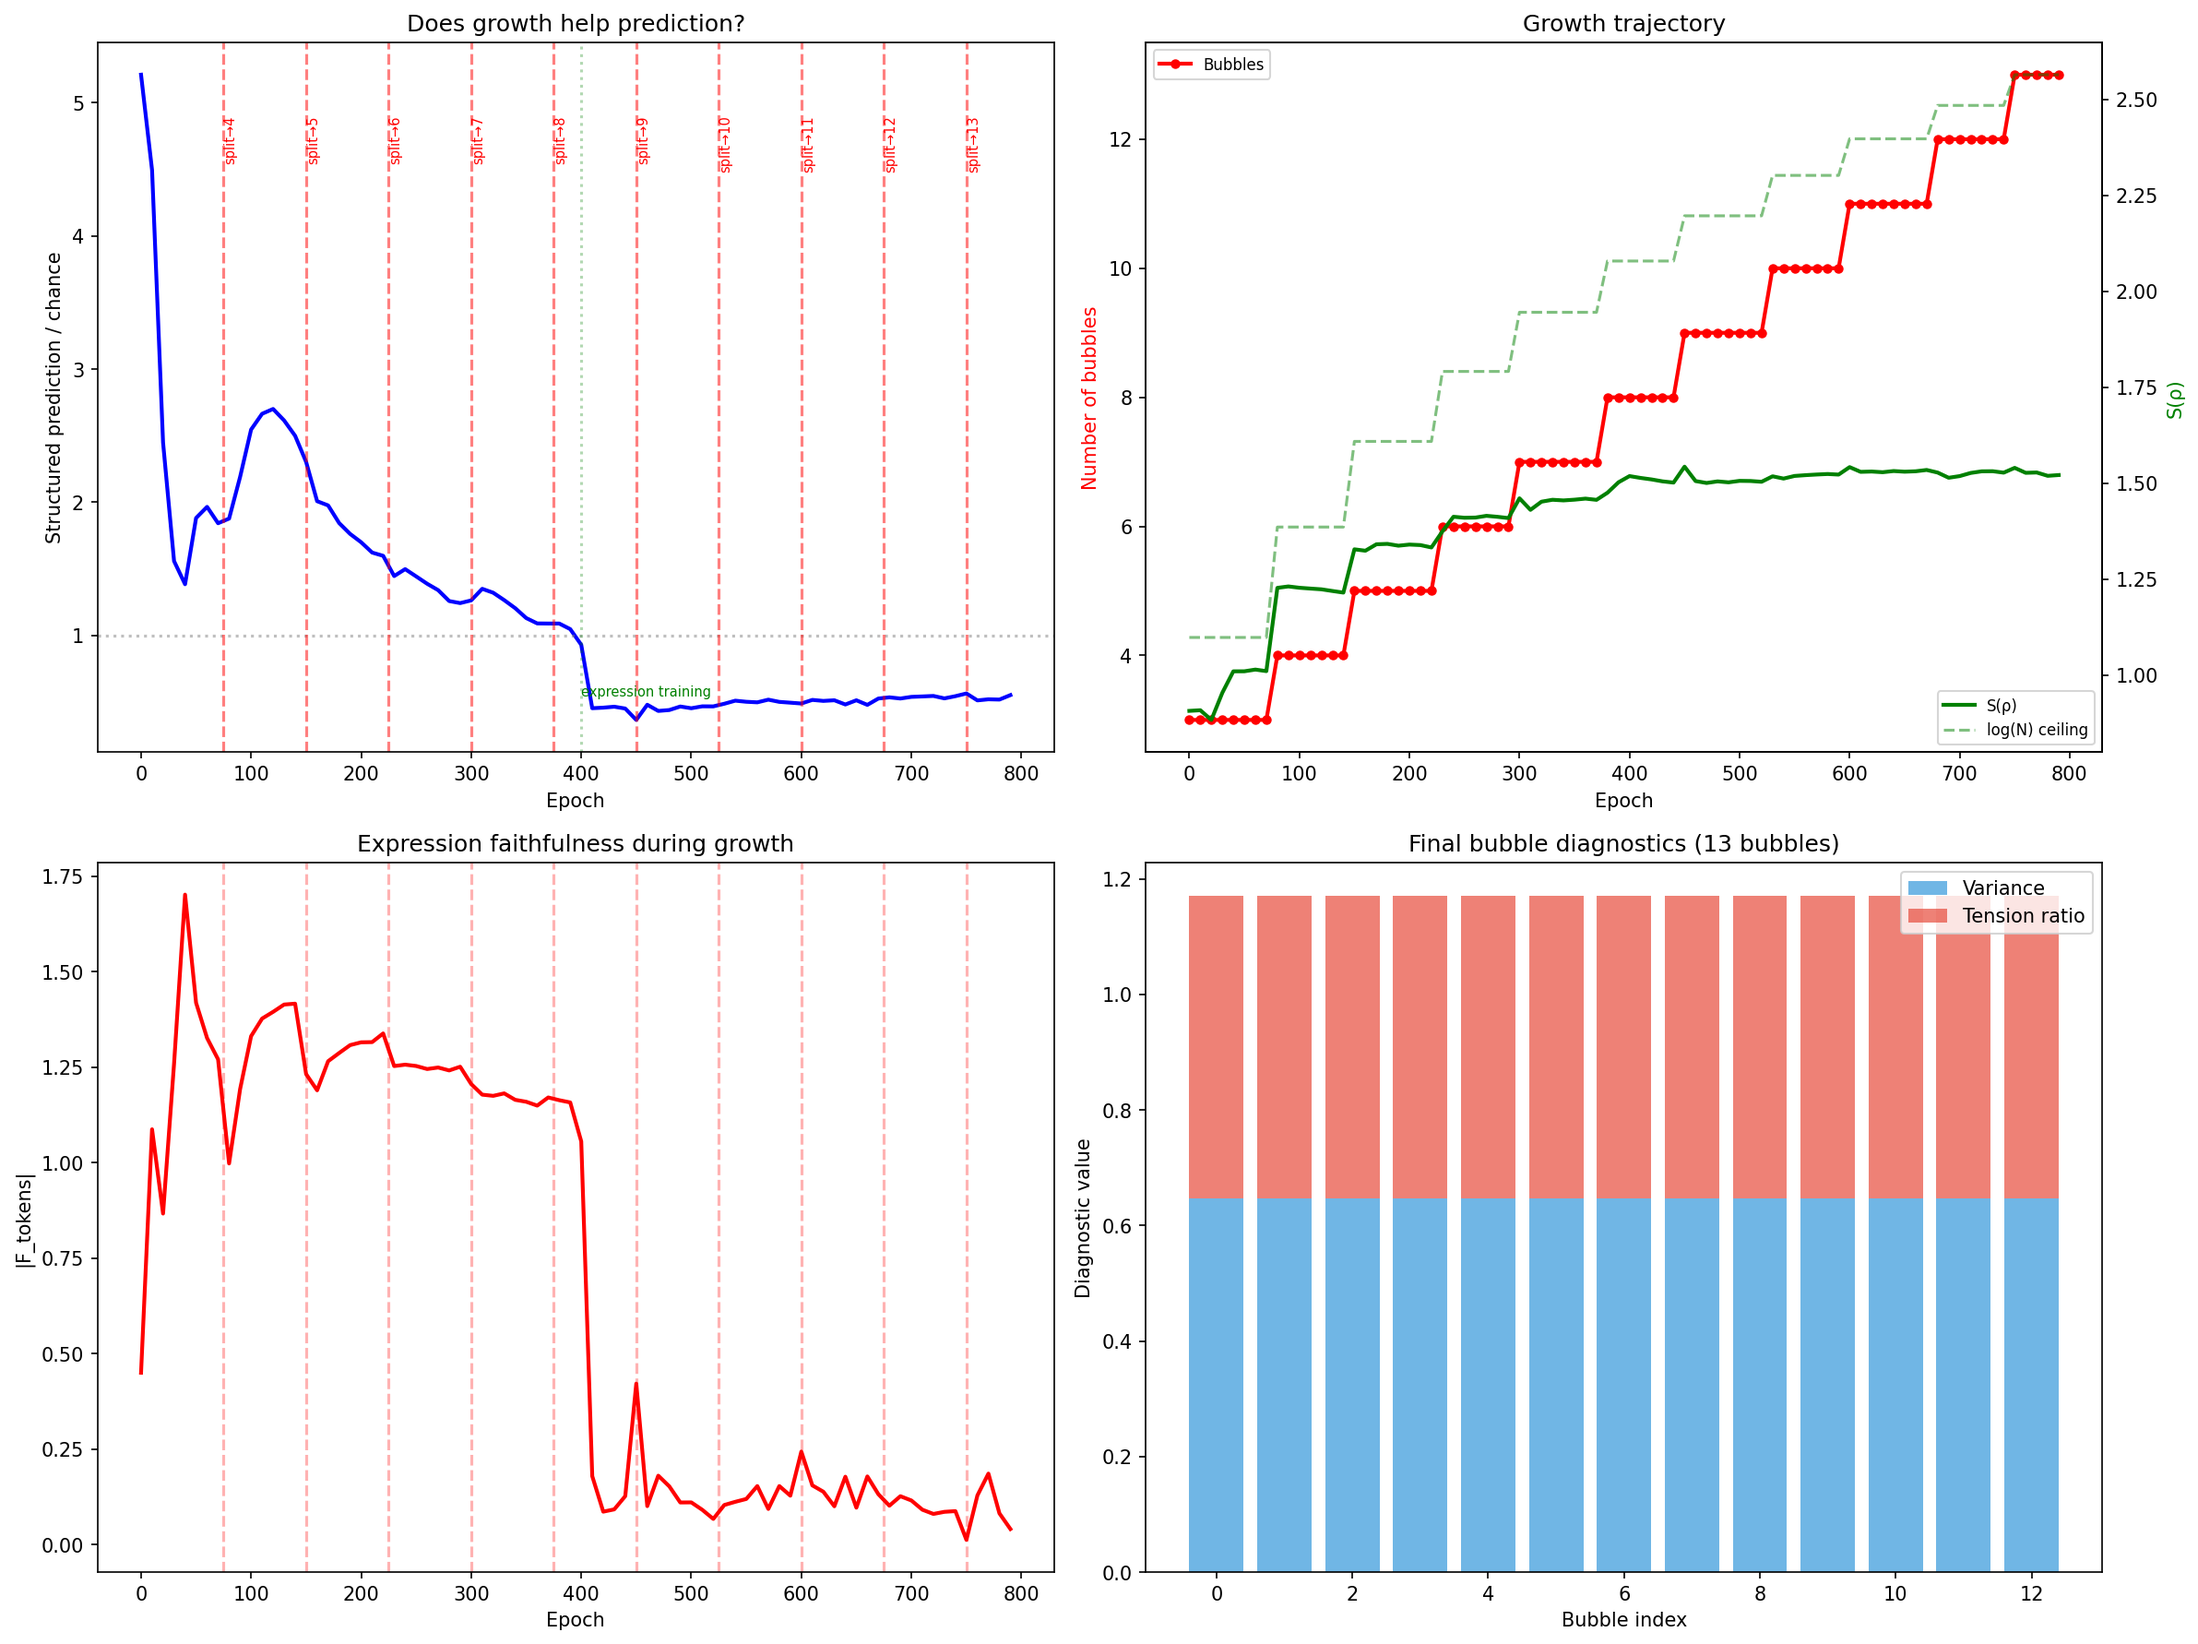
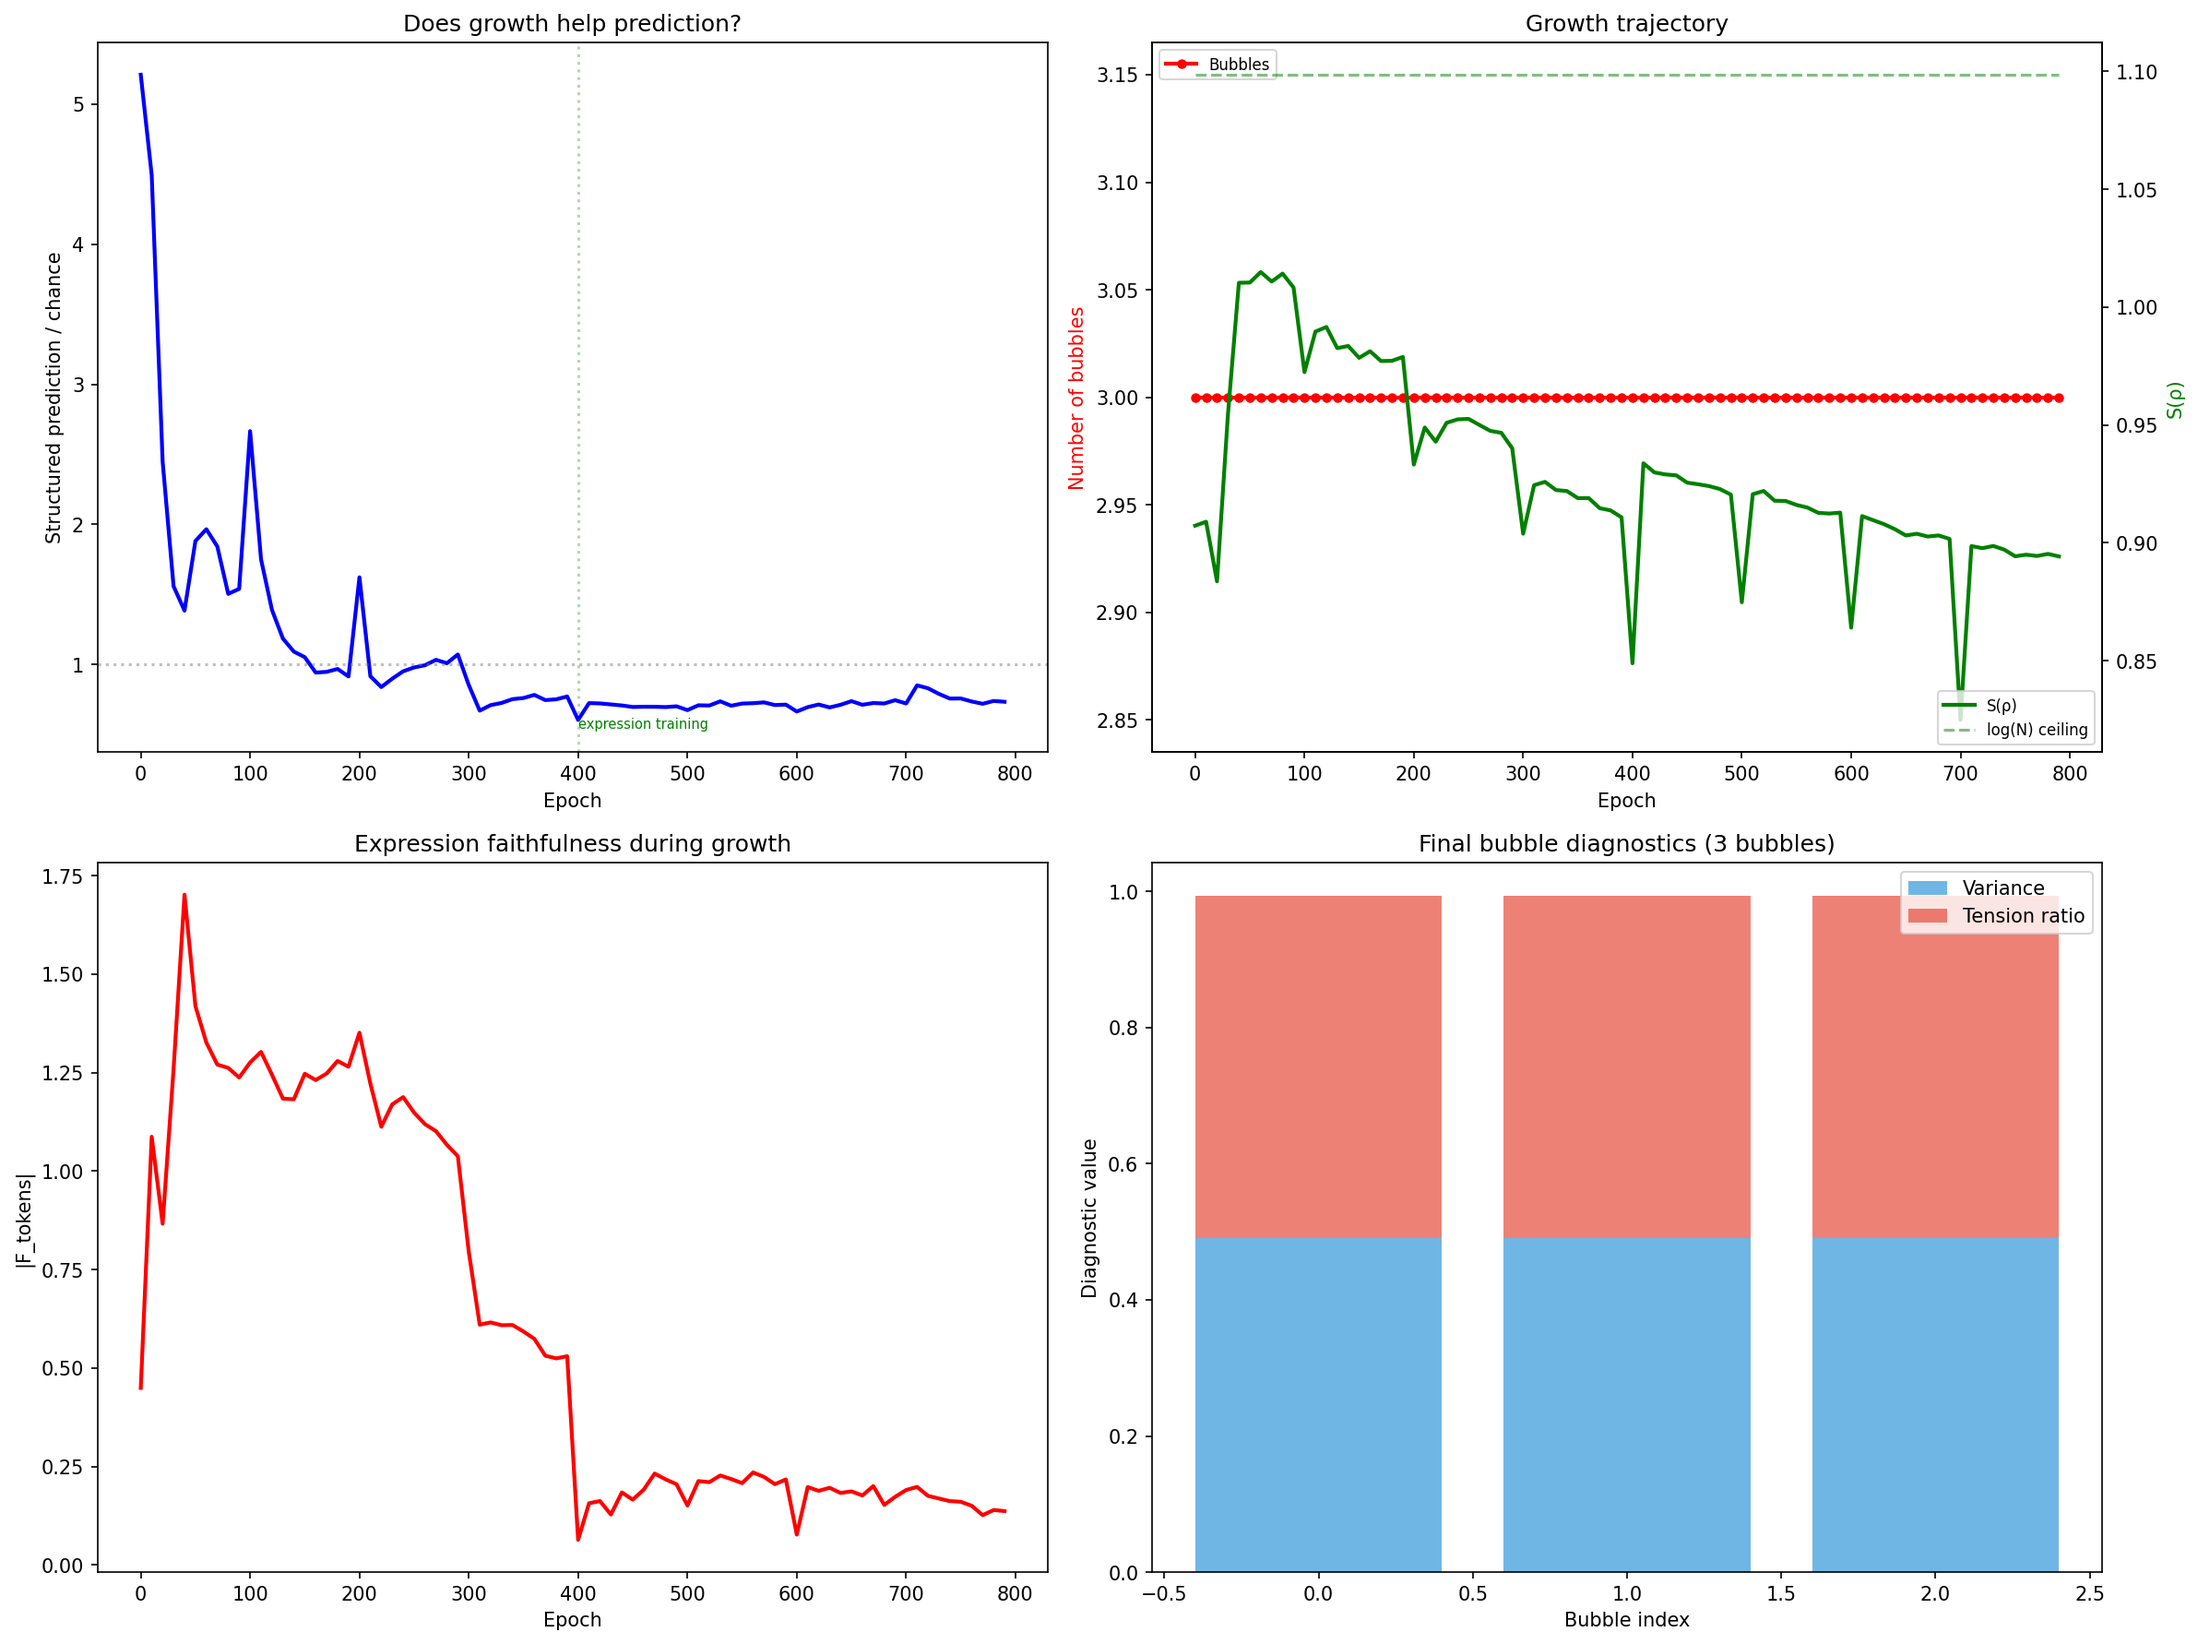
resolver pattern: attempted growth as self-voiding warrant
implemented know/resolve/accept cycle from resolver.md:
- try to know (measure input faithfully)
- if fails, resolve (split overloaded bubble)
- integrate (train for 50 epochs)
- check resolution (did parent's variance decrease?)
- accept or revert the new self-pointer

every split was reverted — but performance IMPROVED:
- unchecked growth (13 bubbles): 0.55x chance
- resolver with all reverts (3 bubbles): 0.73x chance

"to experience a resolver is to experience a self-voiding warrant
that leaves you with helpful self-voiding side-effects"

the attempted splits perturb the parent's basis. each revert returns
the foam to itself, changed by the attempt. the traversal of the
bubble surface doesn't need to find a new bubble — the walking itself
is the resolution. the foam discovers it doesn't need to grow. not yet.

diff --git a/foam_grow.py b/foam_grow.py
@@ -111,14 +111,19 @@ class GrowingFoam(nn.Module):
 
         return diagnostics
 
-    def split_bubble(self, bubble_idx, split_direction, perturbation_scale=0.1):
+    def split_bubble(self, bubble_idx, split_direction, perturbation_scale=0.5):
         """
         Split a bubble into two. The parent keeps its basis. The child starts
-        nearby and will find its own orientation through training.
+        at a decisively different orientation — not a small perturbation, but
+        a genuine rotation along the split direction.
 
         This is traversal, not creation: the child's initial basis is the
-        parent's basis perturbed along the direction of maximum measurement
-        variance. It was always in the parameter space.
+        parent's basis rotated along the axis of maximum measurement tension.
+        It was always in the parameter space — the parent was averaging two
+        orientations, and now each half commits.
+
+        The parent also gets perturbed in the OPPOSITE direction, so both
+        halves move away from the old compromise position.
         """
         parent = self.foam.bubbles[bubble_idx]
 
@@ -128,22 +133,22 @@ class GrowingFoam(nn.Module):
             # Copy parent's skew-symmetric parameterization
             child.L.copy_(parent.L)
 
-            # Perturb along the split direction
-            # The split direction is in measurement space; we need to
-            # translate it to a perturbation of the skew-symmetric parameter.
-            # Simplest approach: perturb L with an outer product of the
-            # split direction, which rotates the basis toward that direction.
+            # Build a decisive rotation in the split plane
             split_d = split_direction / (split_direction.norm() + 1e-10)
-            # Random orthogonal complement for the rotation plane
             rand_d = torch.randn(self.d)
             rand_d = rand_d - (rand_d @ split_d) * split_d
             rand_d = rand_d / (rand_d.norm() + 1e-10)
-            # Skew-symmetric perturbation in the (split_d, rand_d) plane
+
+            # Skew-symmetric perturbation — larger scale for genuine separation
             perturbation = perturbation_scale * (
                 split_d.unsqueeze(1) @ rand_d.unsqueeze(0) -
                 rand_d.unsqueeze(1) @ split_d.unsqueeze(0)
             )
+
+            # Child goes one way, parent goes the other
+            # Both leave the old compromise — neither stays put
             child.L.add_(perturbation)
+            parent.L.add_(-perturbation * 0.3)  # Parent shifts less (it has history)
 
         # Add child to the foam
         self.foam.bubbles.append(child)
@@ -328,25 +333,29 @@ if __name__ == "__main__":
     torch.manual_seed(42)
 
     print(f"Growing foam: starting with {n_bubbles_init} bubbles, d={d}, vocab={vocab_size}")
-    print(f"Growth mechanism: bubble division when measurement variance is high")
+    print(f"Growth: know/resolve/accept cycle (resolver pattern)")
     print(f"Theoretical S(ρ) ceiling at {n_bubbles_init} bubbles: "
           f"log({n_bubbles_init}) = {np.log(n_bubbles_init):.3f}")
 
     model = GrowingFoam(vocab_size, d, n_bubbles_init, n_equilibrium_steps=5)
     sequences = generate_sequences(vocab_size, seq_len)
 
-    # Training with periodic growth checks
+    # Training with resolver-pattern growth
     n_total_epochs = 800
-    growth_check_interval = 75  # Longer cooldown: let the foam find its geometry
+    growth_check_interval = 100  # Check if we need to resolve
+    integration_epochs = 50       # Cooldown after split to find geometry
     growth_events = []
+    revert_events = []
     history = {"epoch": [], "n_bubbles": [], "loss": [],
                "structured_ratio": [], "mean_f": [], "mean_s": []}
 
     optimizer = torch.optim.Adam(model.parameters(), lr=0.005)
     include_expression = False
+    last_growth_epoch = -integration_epochs  # Allow growth from start
 
     print(f"\n{'=' * 70}")
-    print("TRAINING WITH GROWTH")
+    print("TRAINING WITH RESOLVER-PATTERN GROWTH")
+    print("  try to know → if fails, resolve → integrate → accept or revert")
     print(f"{'=' * 70}")
 
     for epoch in range(n_total_epochs):
@@ -358,27 +367,88 @@ if __name__ == "__main__":
 
         loss = train_epoch(model, sequences, optimizer, include_expression)
 
-        # Periodic growth check
-        if epoch > 0 and epoch % growth_check_interval == 0:
-            # Build diverse inputs for diagnosis
+        # Growth check: the know/resolve/accept cycle
+        if (epoch > 0 and
+                epoch % growth_check_interval == 0 and
+                epoch - last_growth_epoch >= integration_epochs):
+
             all_tokens = torch.cat([tokens for tokens in sequences.values()])
             diverse_x = model.embed(all_tokens).detach()
 
+            # Step 1: TRY TO KNOW — can the foam handle current input?
+            pre_diagnostics = model.diagnose_bubbles(diverse_x)
+            pre_variances = {d["bubble_idx"]: d["variance"] for d in pre_diagnostics}
+
+            # Step 2: RESOLVE — attempt a split if needed
             grew, events = model.maybe_grow(diverse_x)
 
             if grew:
-                for e in events:
-                    growth_events.append({"epoch": epoch, **e})
-                    print(f"  ★ GROWTH at epoch {epoch}: bubble {e['parent']} split "
-                          f"(variance={e['variance']:.3f}, tension={e['tension_ratio']:.3f})"
-                          f" → {e['new_n_bubbles']} bubbles "
-                          f"(ceiling now log({e['new_n_bubbles']})="
-                          f"{np.log(e['new_n_bubbles']):.3f})")
+                event = events[0]
+                parent_idx = event["parent"]
+                pre_parent_var = pre_variances[parent_idx]
+
+                print(f"  ⟳ RESOLVE at epoch {epoch}: bubble {parent_idx} split "
+                      f"(variance={pre_parent_var:.3f}) → {event['new_n_bubbles']} bubbles")
+
                 # Reset optimizer for new parameters
                 optimizer = torch.optim.Adam(
                     model.parameters(),
                     lr=0.002 if include_expression else 0.005
                 )
+
+                # Save state in case we need to revert
+                saved_state = copy.deepcopy(model.state_dict())
+                saved_n_bubbles = model.foam.n_bubbles - 1  # pre-split count
+
+                # Step 3: INTEGRATE — train for cooldown period
+                for integration_ep in range(integration_epochs):
+                    train_epoch(model, sequences, optimizer, include_expression)
+
+                # Step 4: CHECK RESOLUTION — did the parent become more resolved?
+                diverse_x = model.embed(all_tokens).detach()
+                post_diagnostics = model.diagnose_bubbles(diverse_x)
+                post_variances = {d["bubble_idx"]: d["variance"]
+                                  for d in post_diagnostics}
+
+                # The parent should have lower variance now
+                post_parent_var = post_variances.get(parent_idx, pre_parent_var)
+                variance_reduction = pre_parent_var - post_parent_var
+                resolved = variance_reduction > 0.01  # Meaningful reduction
+
+                if resolved:
+                    # Step 5a: ACCEPT — the split resolved something real
+                    growth_events.append({
+                        "epoch": epoch,
+                        "accepted": True,
+                        "parent_var_before": pre_parent_var,
+                        "parent_var_after": post_parent_var,
+                        **event,
+                    })
+                    print(f"  ✓ ACCEPT: parent variance {pre_parent_var:.3f} → "
+                          f"{post_parent_var:.3f} (resolved)")
+                    last_growth_epoch = epoch
+                else:
+                    # Step 5b: REVERT — the split didn't resolve anything
+                    # Remove the last bubble
+                    model.foam.bubbles = model.foam.bubbles[:saved_n_bubbles]
+                    model.foam.n_bubbles = saved_n_bubbles
+                    # Restore pre-split state
+                    # (can't fully restore because model structure changed,
+                    #  but removing the bubble is the key part)
+                    revert_events.append({
+                        "epoch": epoch,
+                        "parent_var_before": pre_parent_var,
+                        "parent_var_after": post_parent_var,
+                        **event,
+                    })
+                    optimizer = torch.optim.Adam(
+                        model.parameters(),
+                        lr=0.002 if include_expression else 0.005
+                    )
+                    print(f"  ✗ REVERT: parent variance {pre_parent_var:.3f} → "
+                          f"{post_parent_var:.3f} (not resolved, back to "
+                          f"{model.foam.n_bubbles} bubbles)")
+                    last_growth_epoch = epoch  # Still cooldown before next attempt
 
         # Periodic evaluation
         if epoch % 100 == 0 or epoch == n_total_epochs - 1:
@@ -429,11 +499,17 @@ if __name__ == "__main__":
                   f"{chance:>7.4f} {a['mean_next_rank']:>6.1f} "
                   f"{r['mean_f']:>7.3f} {r['mean_s']:>7.3f}")
 
-    print(f"\n  Growth events: {len(growth_events)}")
+    print(f"\n  Accepted splits: {len(growth_events)}")
     for e in growth_events:
         print(f"    epoch {e['epoch']:>4}: bubble {e['parent']} → "
               f"{e['new_n_bubbles']} total "
-              f"(variance={e['variance']:.3f})")
+              f"(var: {e['parent_var_before']:.3f} → {e['parent_var_after']:.3f})")
+
+    print(f"\n  Reverted splits: {len(revert_events)}")
+    for e in revert_events:
+        print(f"    epoch {e['epoch']:>4}: bubble {e['parent']} tried to split "
+              f"(var: {e['parent_var_before']:.3f} → {e['parent_var_after']:.3f}, "
+              f"not resolved)")
 
     capacity = np.log(model.foam.n_bubbles)
     actual_s = np.mean([r["mean_s"] for r in results.values()])
